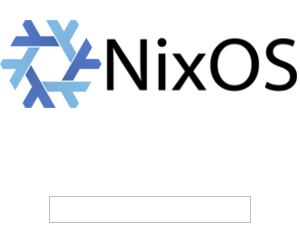
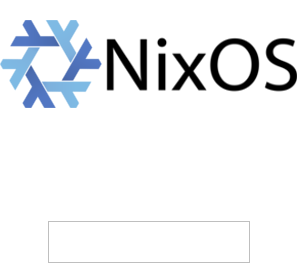
HiDPI changes

diff --git a/README.md b/README.md
@@ -1,4 +1,4 @@
-#Theme for [SLiM](http://slim.berlios.de/) with [NixOS](http://nixos.org/) thematics.
+#Theme for [SLiM](http://slim.berlios.de/) with [NixOS](http://nixos.org/) thematics HiDPI version.
 ![preview](https://github.com/jagajaga/nixos-slim-theme/raw/master/preview.png)
 
 ## How to use
